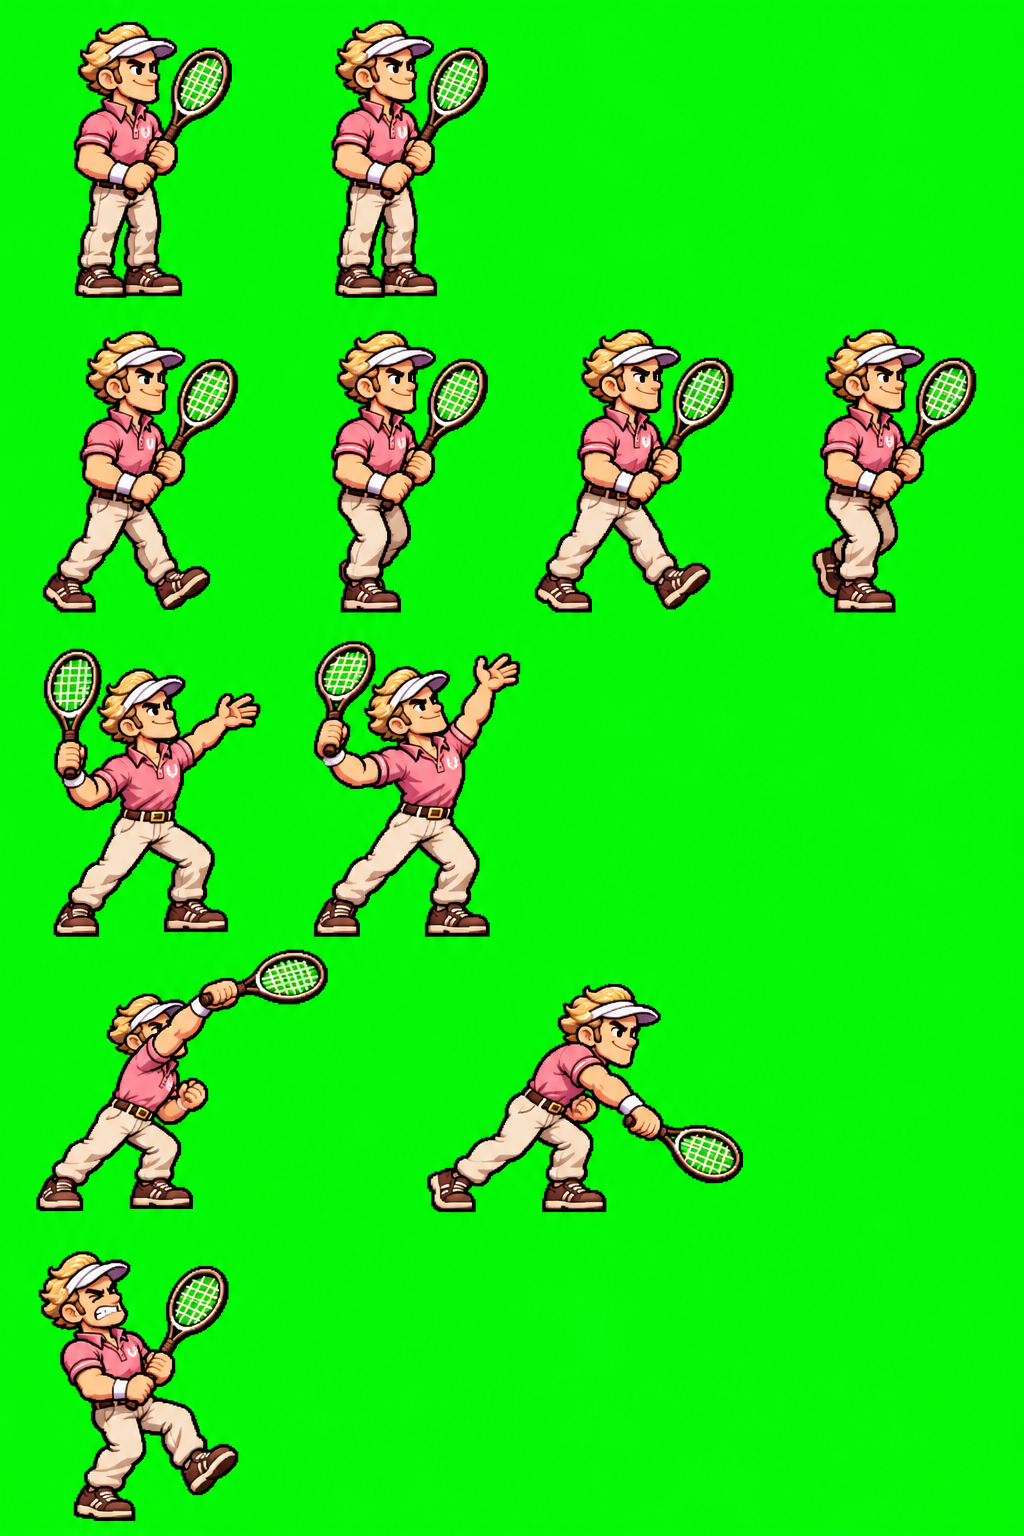
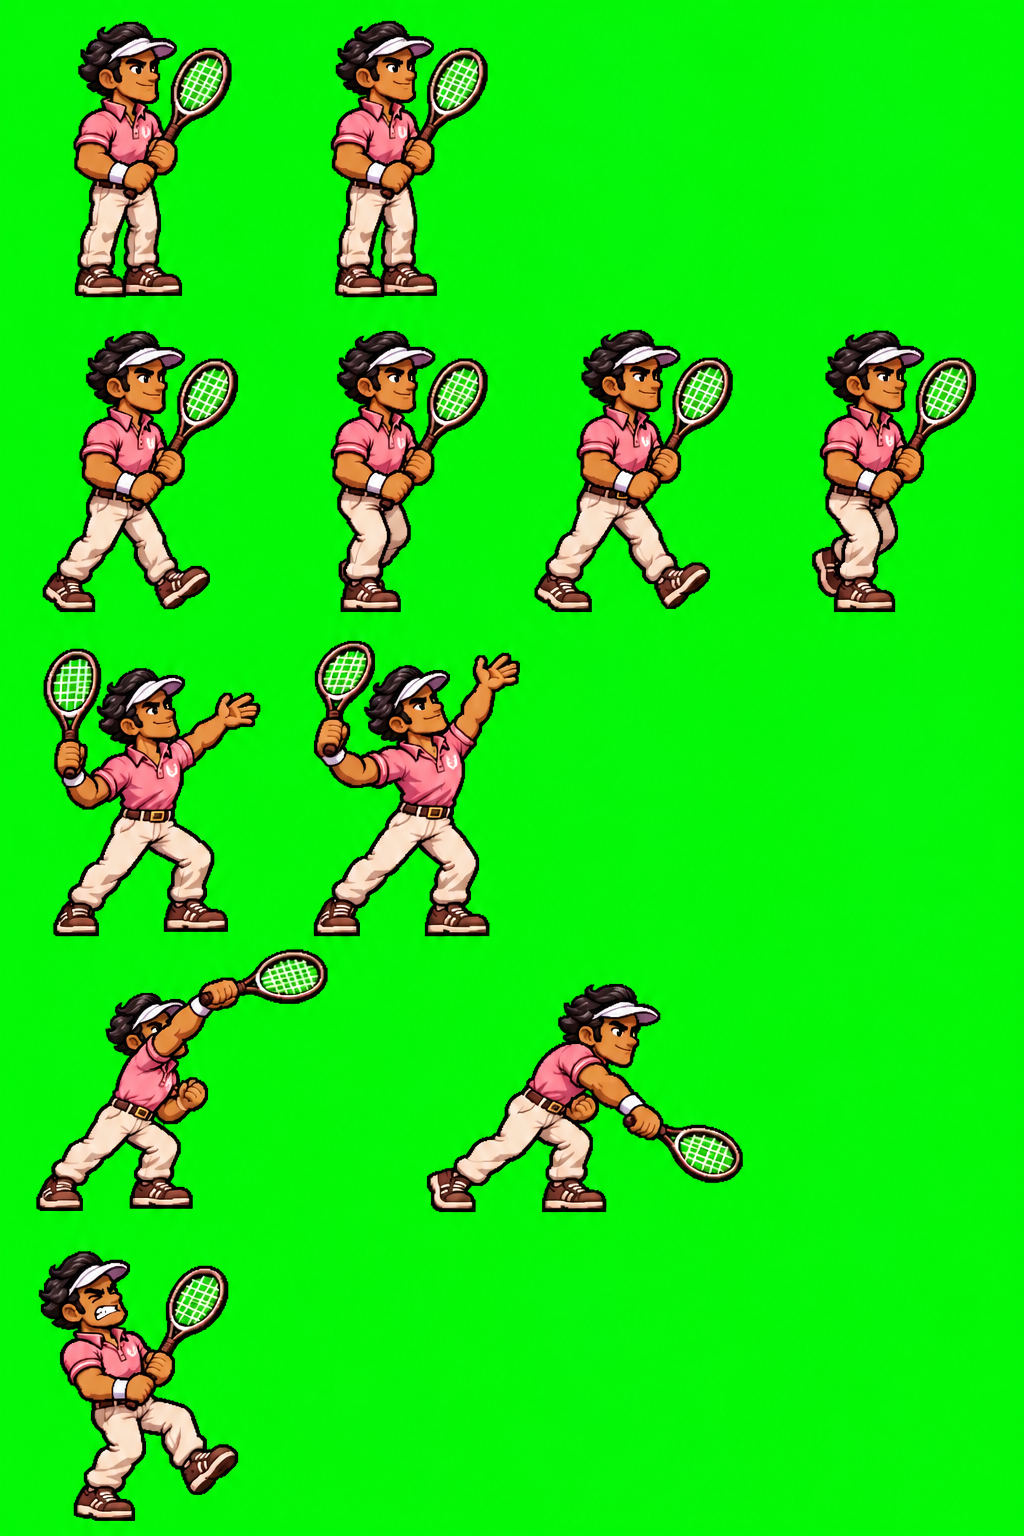
Diversify male enemy appearances across six officer sheets

diff --git a/art/TODO.md b/art/TODO.md
@@ -127,6 +127,12 @@ players read that he blocks.
 - [x] `art/raw/officer-chief.png` — untouched 1024x1536 original; idle:2,walk:4,windup:2,swing:2,hurt:1.
   Default cutter detection passed. Ready for import at height 200 and in-game review.
 
+The six remaining officer raw sheets were revised to diversify the male roster: skin tones,
+facial features and hair now vary across characters while retaining costumes, weapons and row layouts.
+All six revised originals pass default cutter detection (11 frames each); re-import these latest raw
+files and review animation and edges in game. Earlier appearances remain available in Git history.
+For future variants, vary ethnicity within each enemy type rather than assigning it to a gameplay role.
+
 Cut and import (same for each; change the name and height):
 
     python3 tools/cut_raw.py art/raw/officer-uniform.png officer-uniform --height 140 \
